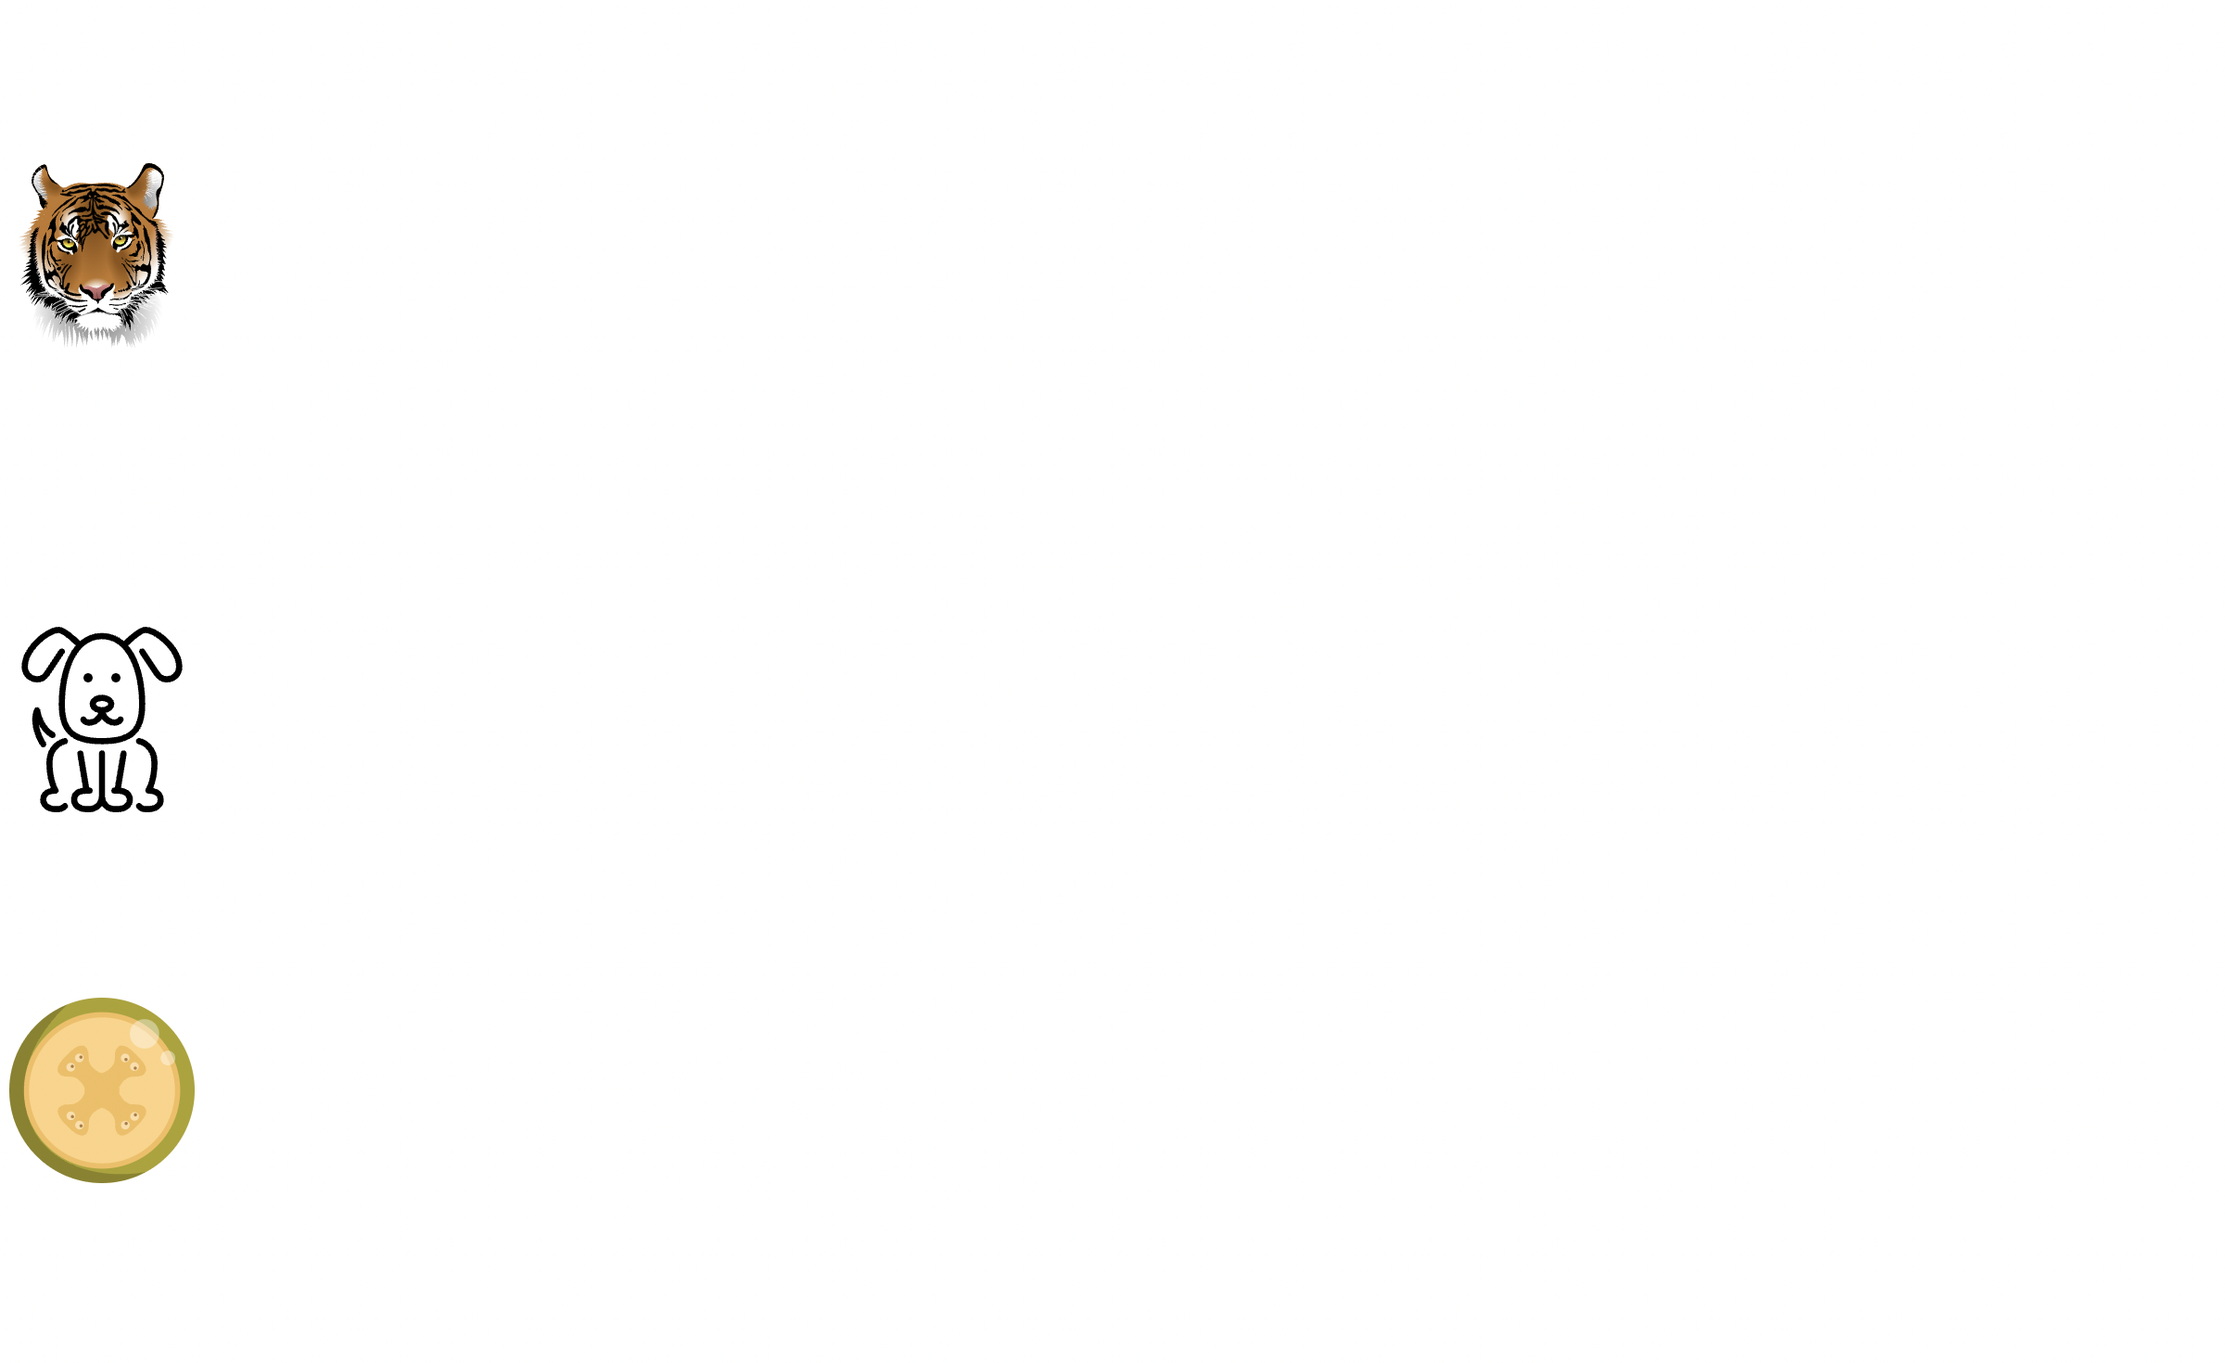
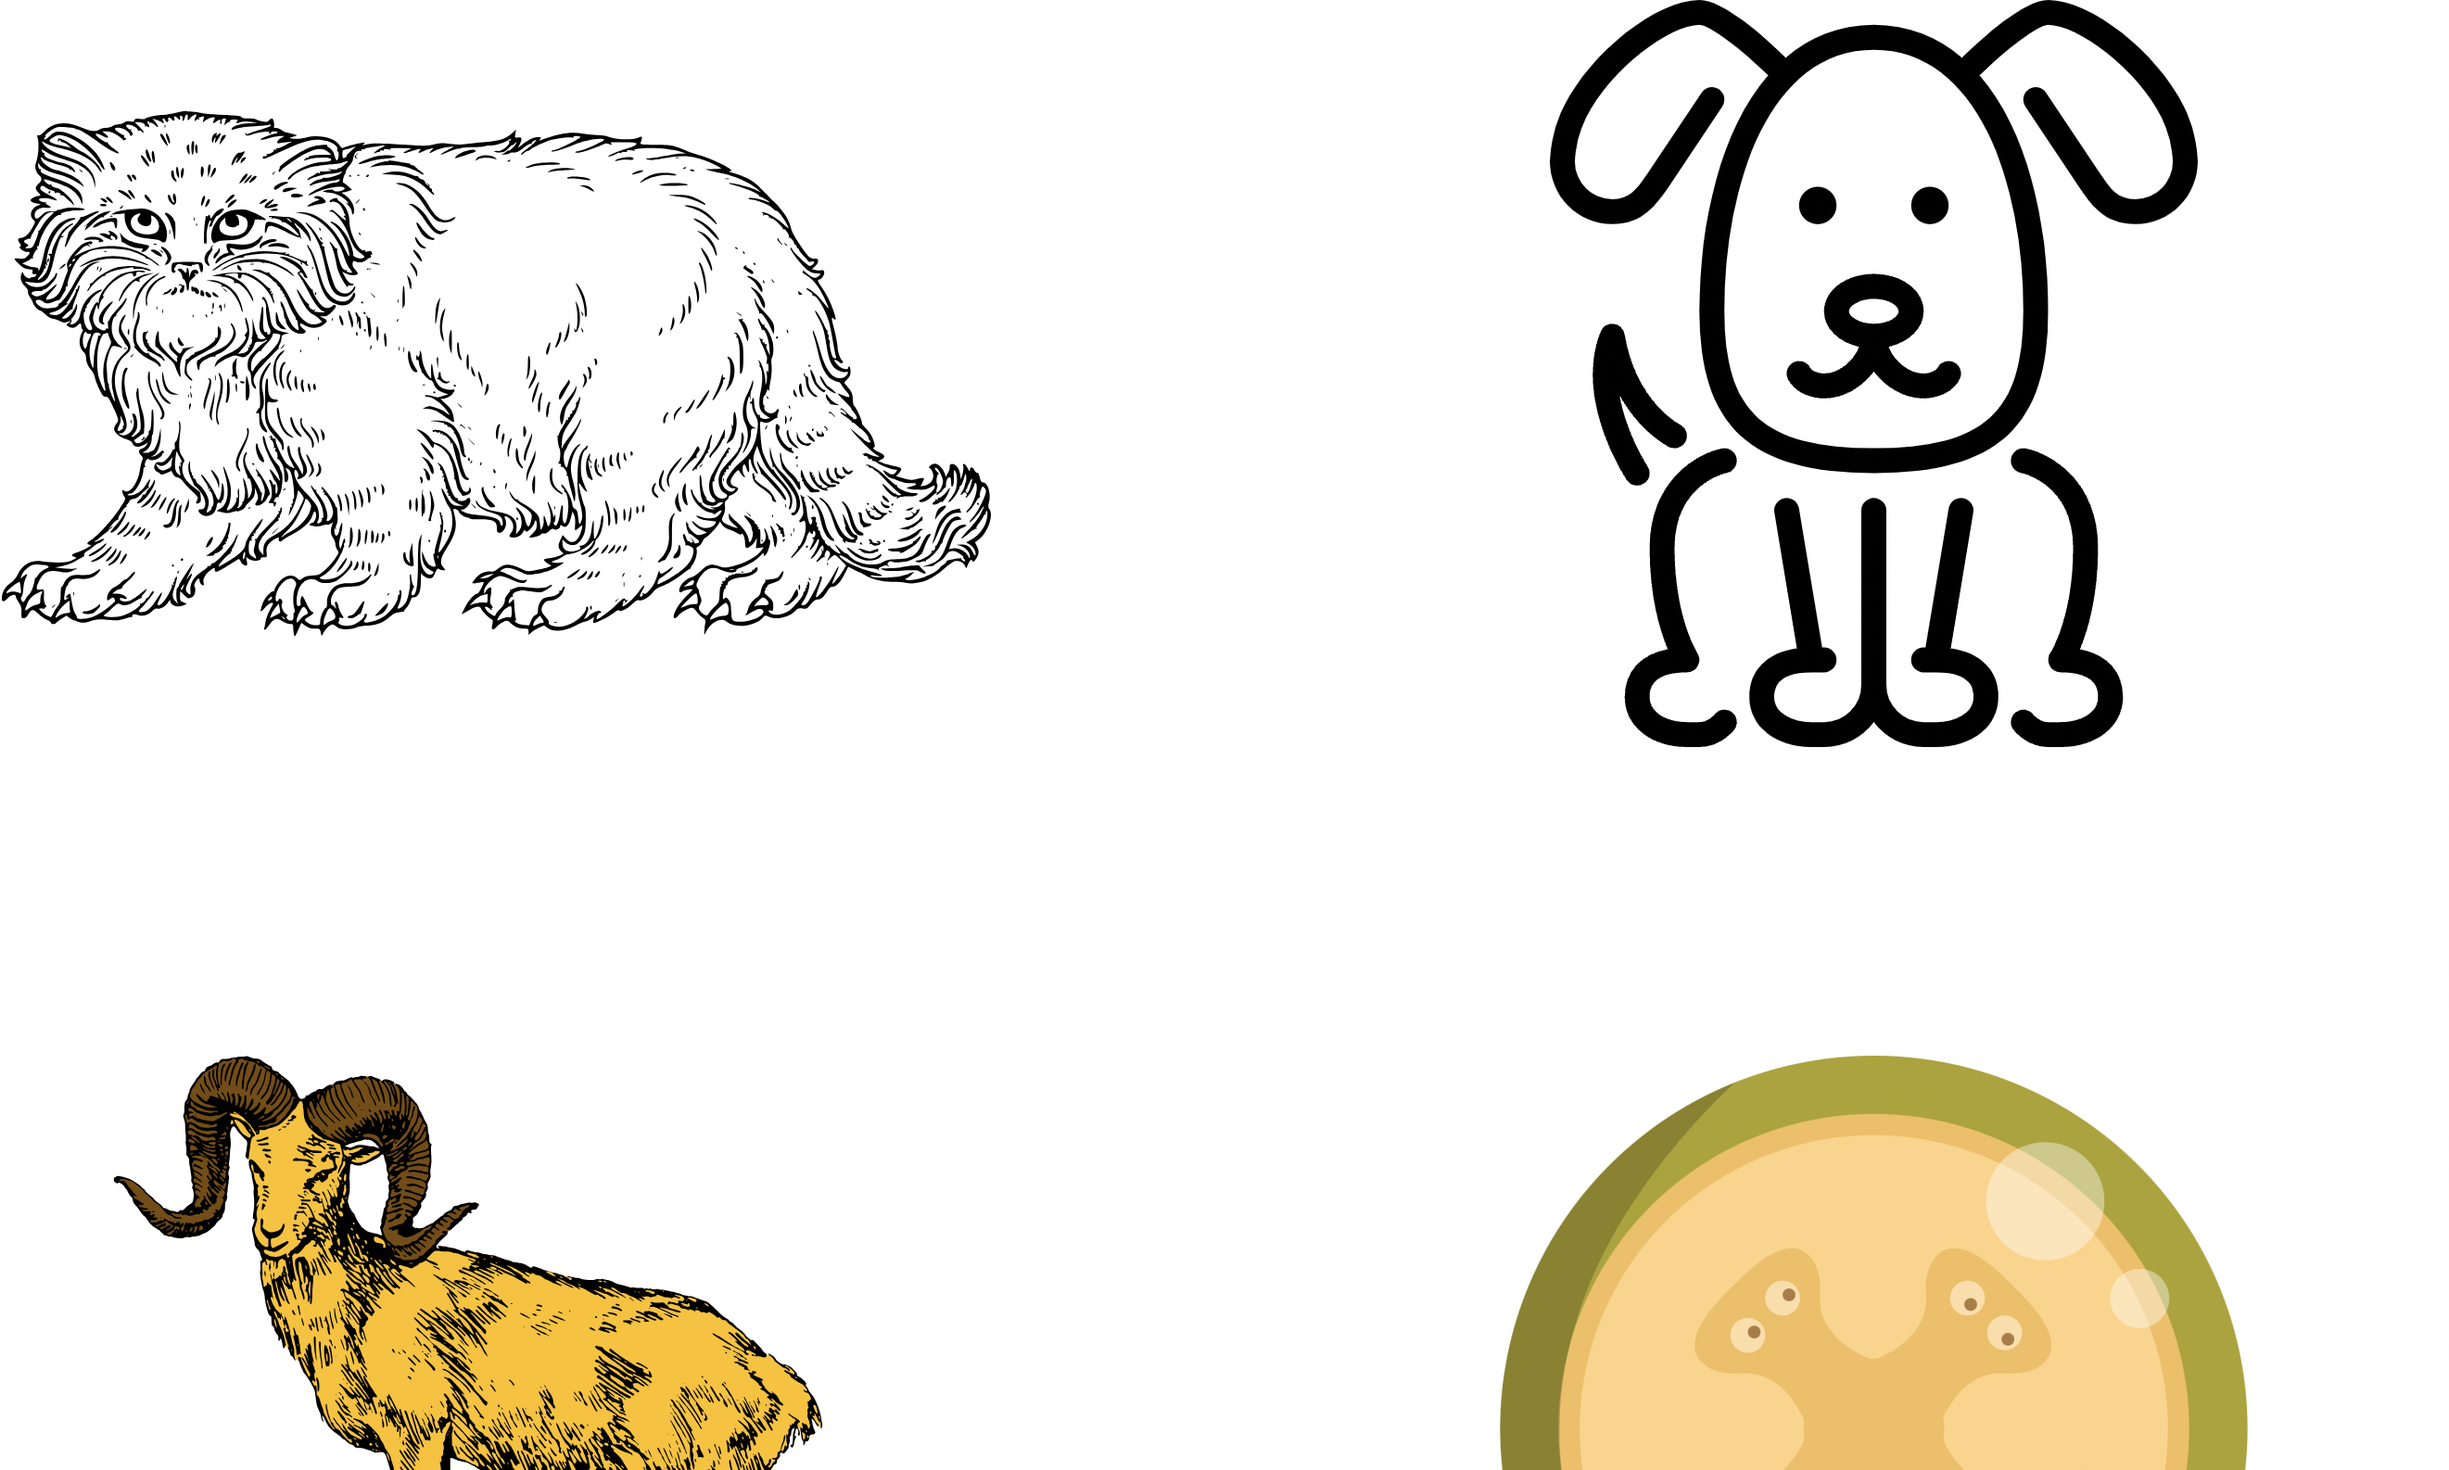
updated readme file

diff --git a/ReadME.md b/ReadME.md
@@ -1,8 +1,45 @@
-# Icon wizard
+## Icon Wizard
 
-- try to create icon library to have better experience to use svg icon
-- our aim is using svg icon like font
+Icon Wizard is a custom web component that allows you to easily integrate **SVG** icons into your web projects by converting them to JSON format. With Icon Wizard, you can display icons with just a simple HTML tag.
 
-### sample image
+## Features
+
+- Convert SVG icons to JSON format.
+- Display icons using a custom HTML element
+
+```html
+<icon-wizard icon="tiger"></icon-wizard>
+<icon-wizard icon="dog"></icon-wizard>
+<icon-wizard icon="melon"></icon-wizard>
+```
+
+- Easy to use and highly customizable.
+
+## Getting Started
+
+### Installation
+
+To use Icon Wizard in your project, you can include it lik:
+
+```html
+<script type="module" src="./main.js"></script>
+
+<icon-wizard icon="cat"></icon-wizard>
+<icon-wizard icon="dog"></icon-wizard>
+<icon-wizard icon="goat"></icon-wizard>
+<icon-wizard icon="melon"></icon-wizard>
+<icon-wizard icon="tiger"></icon-wizard>
+<icon-wizard icon="tv"></icon-wizard>
+```
+
+Alternatively, you can download the script and host it locally.
+
+### Advantages
+
+- Font can only use black and white, but svg can be colored.
+- Only necessary images are uploaded, so they are advantageous in terms of size.
+- Can be converted to library format.
+
+### Output
 
 ![](./ss.png)
